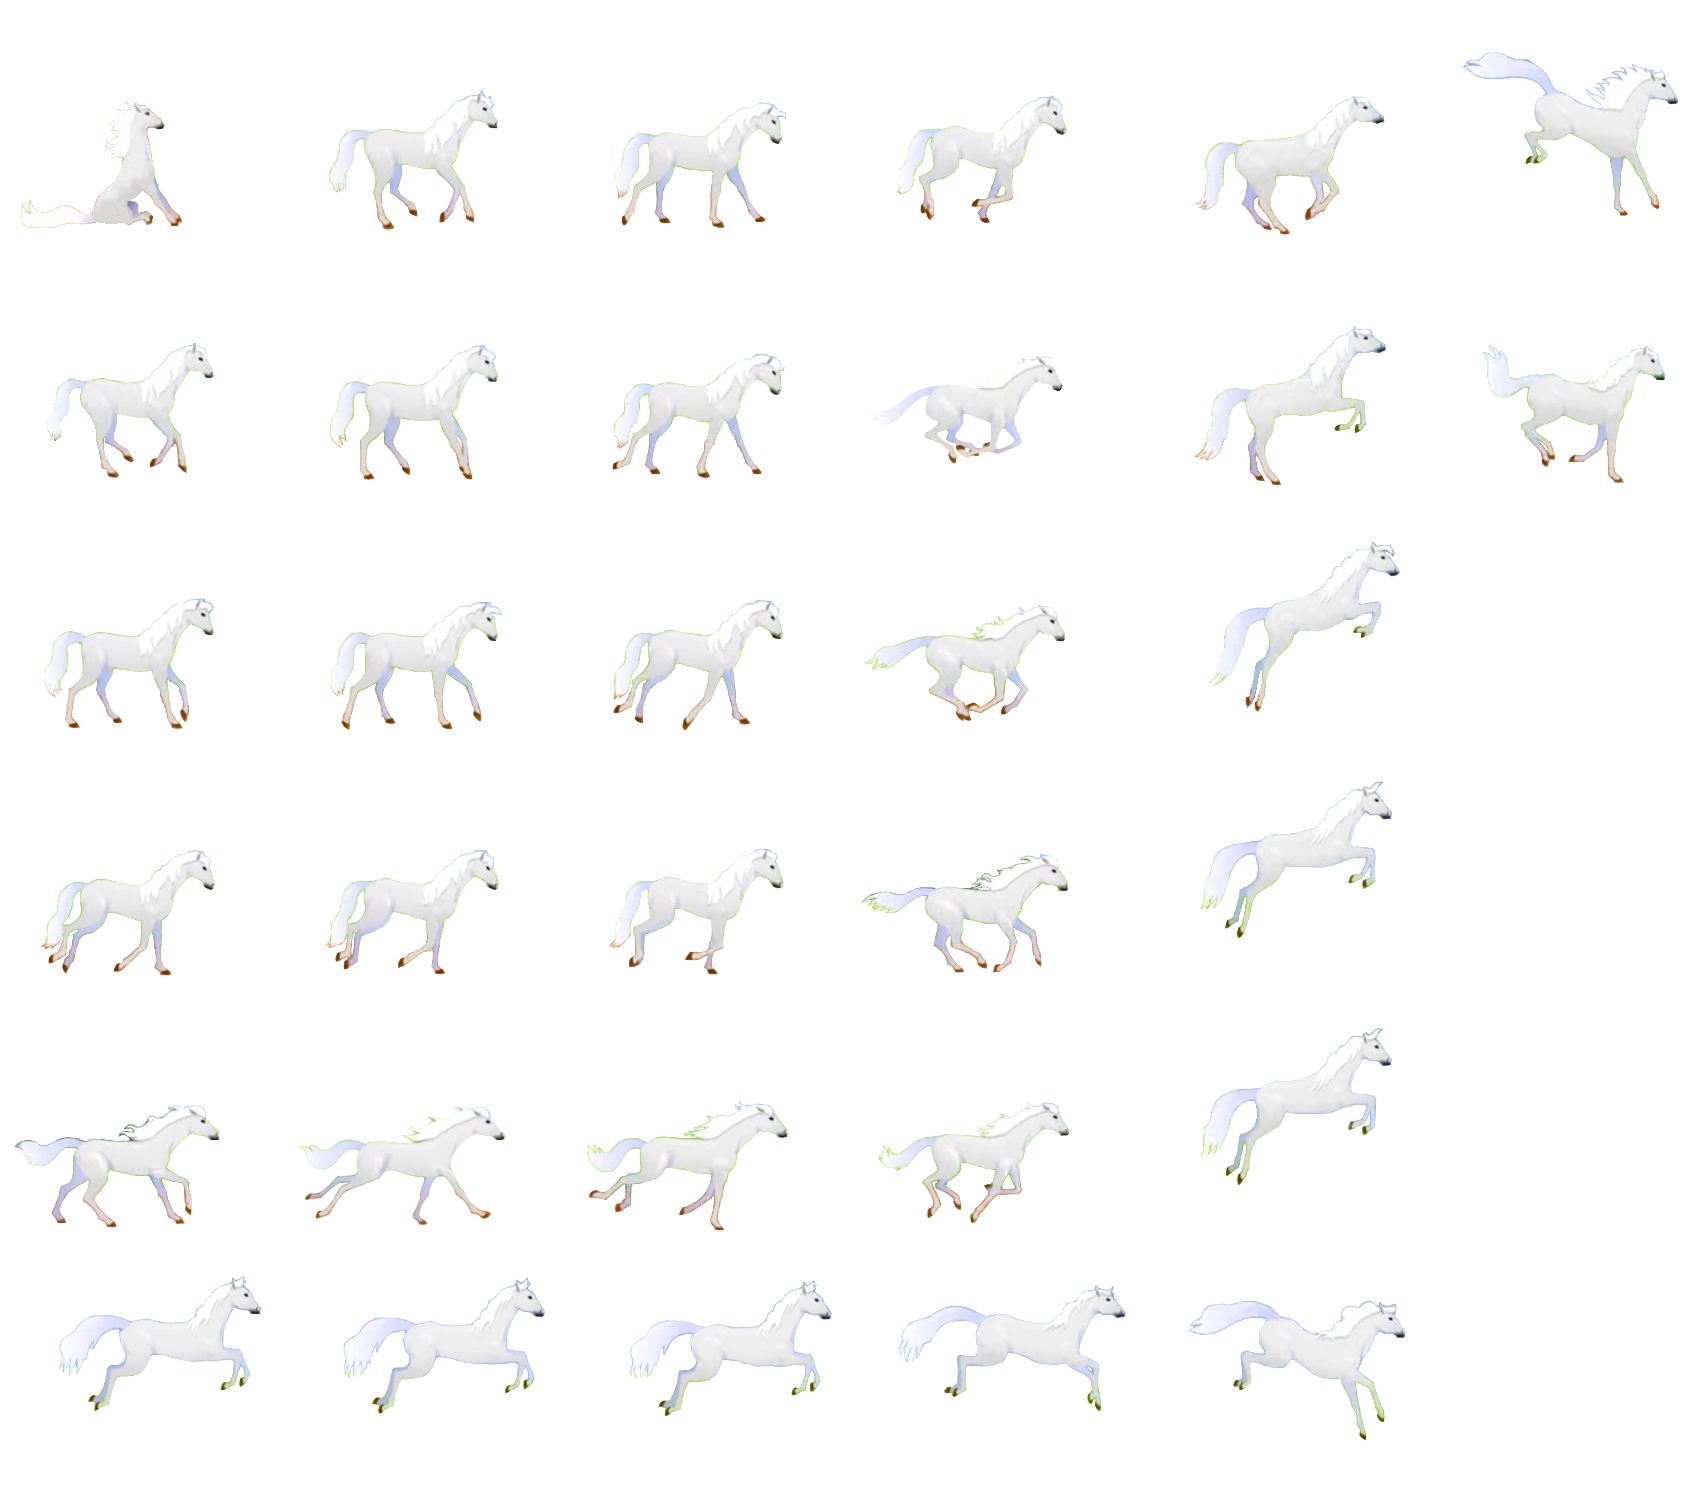
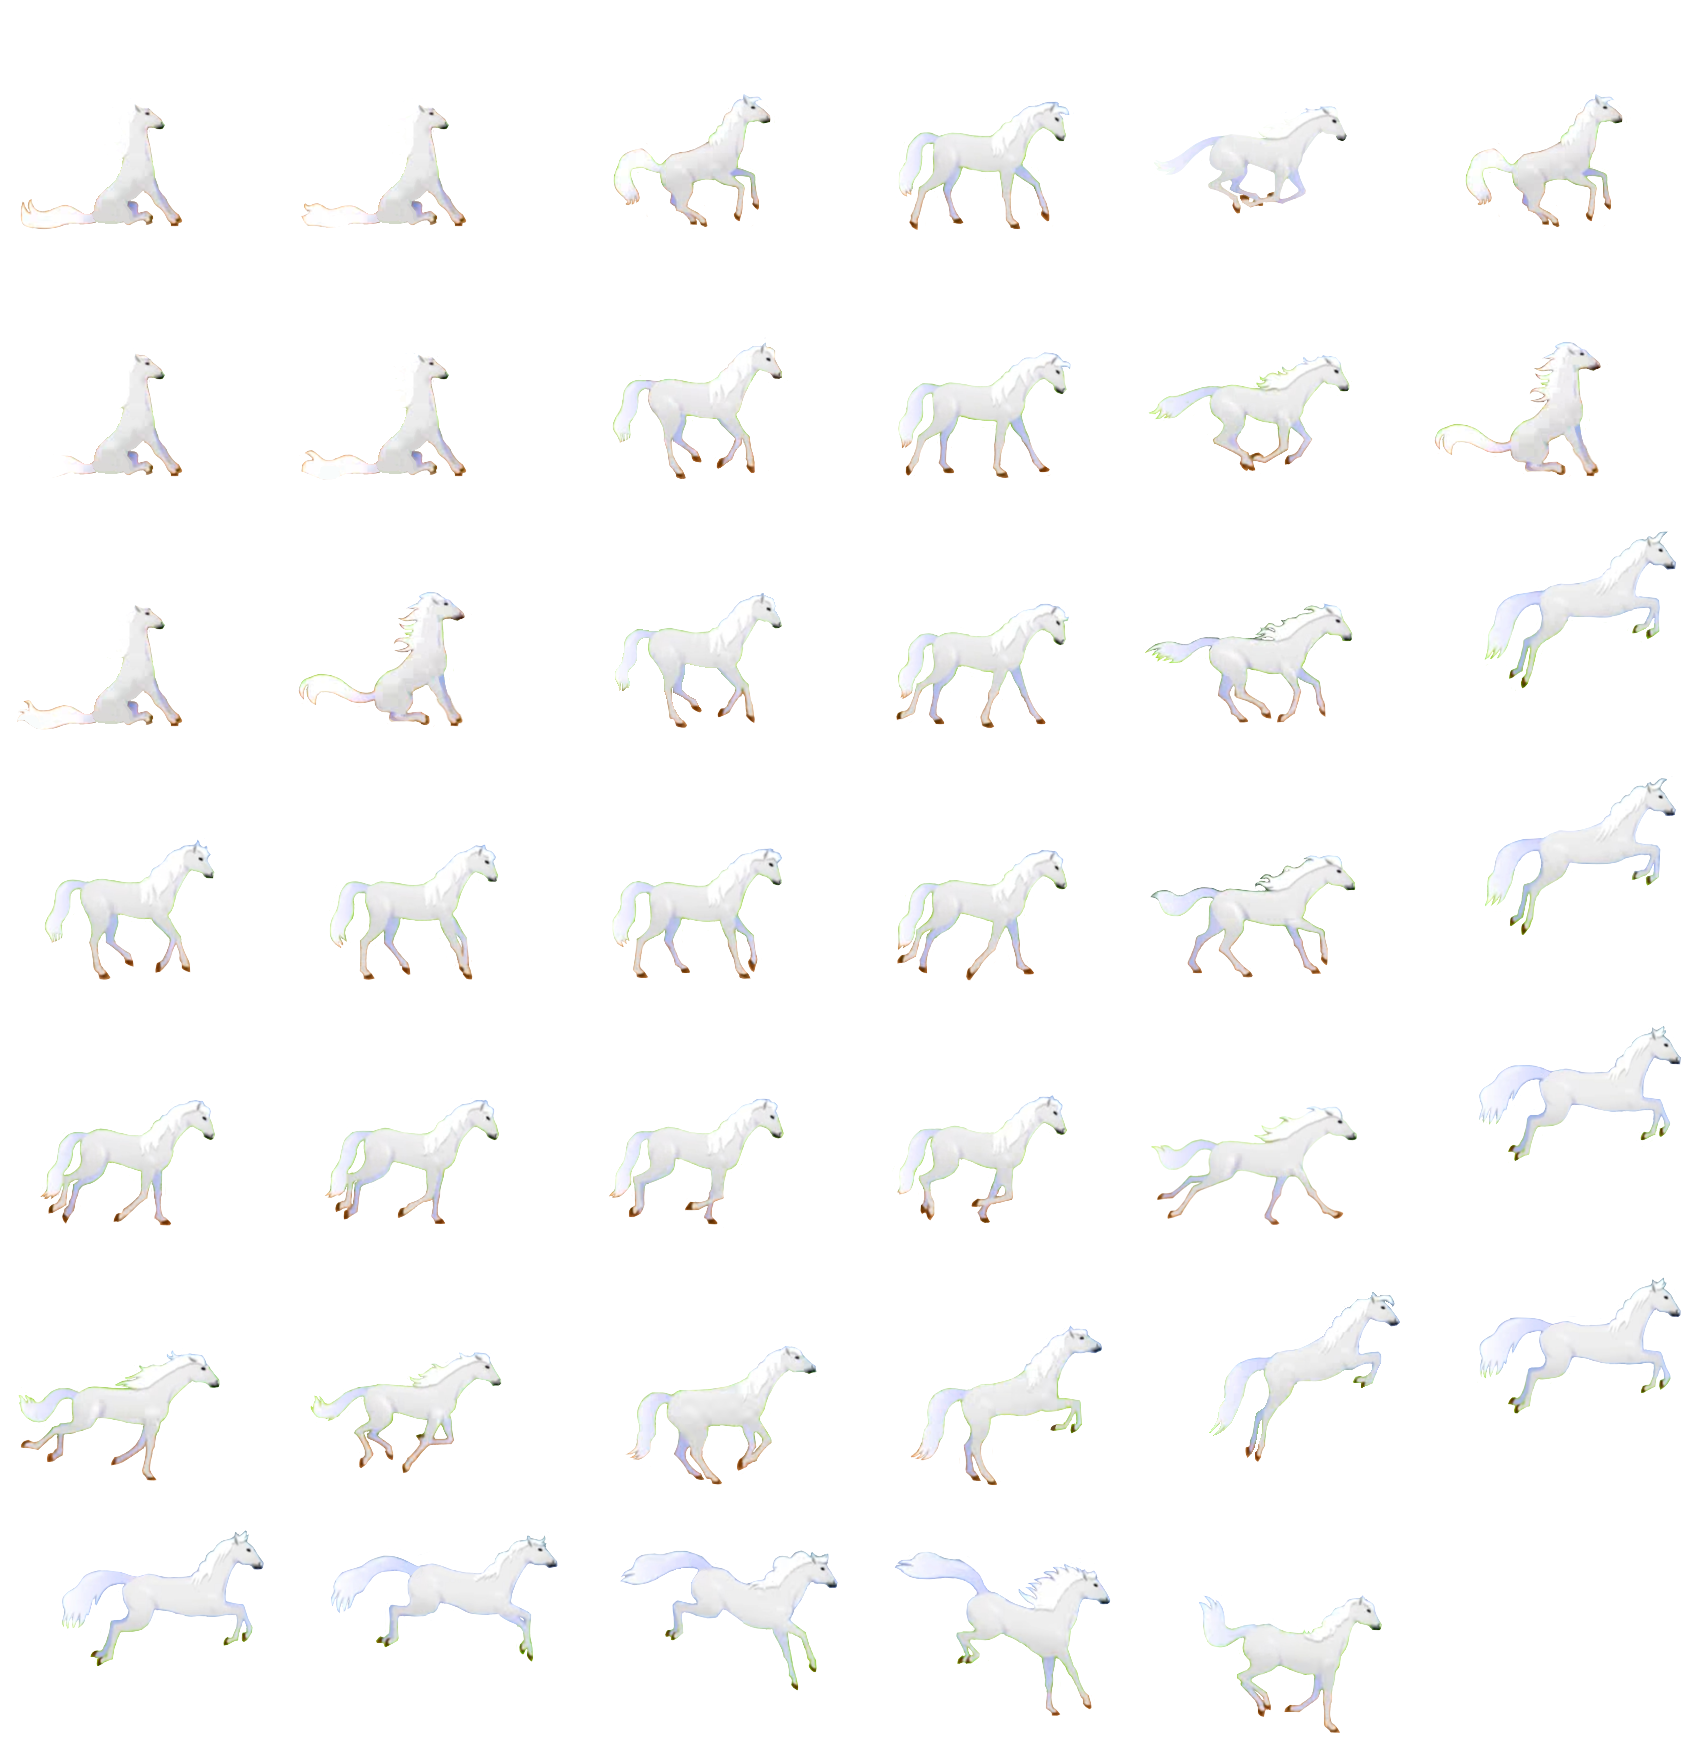
Adding animations

diff --git a/jumpingGame.js b/jumpingGame.js
@@ -3,22 +3,21 @@ playGame = false
 
 class JumpingGame extends Phaser.Scene 
 {
-
     horse
-    canterSpeed = 200
-    gallopSpeed = 400
+    canterSpeed = 310
+    gallopSpeed = 500
     skidSpeed = 200
-    jumpSpeedX = 0
-    jumpSpeedY = 180
     maxJump = 100
     runHeight = 280
     horseMovements = {
         running: 'running',
+        cantering: 'cantering',
+        galloping: 'galloping',
         jumping: 'jumping',
-        landing: 'landing',
         skidding: 'skidding'
     }
     horseMovement = this.horseMovements.running
+    isSkidding = false
 
     constructor ()
     {
@@ -41,10 +40,10 @@ class JumpingGame extends Phaser.Scene
 
     create ()
     { 
-
         // Inputs
         this.cursors = this.input.keyboard.createCursorKeys();
         this.spaceBar = this.input.keyboard.addKey(Phaser.Input.Keyboard.KeyCodes.SPACE);
+
 
         // BG
         this.add.image(444, 234, 'mountains').setScrollFactor(0)
@@ -52,33 +51,68 @@ class JumpingGame extends Phaser.Scene
         this.add.image(1332, 234, 'path')
         this.add.image(2220, 234, 'path')
 
+
         // Music
         const backgroundMusic = this.sound.add('background_music');
         backgroundMusic.loop = true; 
         backgroundMusic.play();
 
+
         // Horse
         this.horse = this.physics.add.sprite(-100, this.runHeight, 'horse', 'canter0000')
-        this.anims.create({
-            key: 'canter',
-            frames: this.anims.generateFrameNumbers('horse', { frames: [
-                'canter0000', 'canter0001', 'canter0002', 'canter0003', 'canter0004', 'canter0005', 'canter0006', 'canter0007', 'canter0008', 'canter0009', 'canter0010', 'canter0011'
-            ] }),
-            frameRate: 24,
-            repeat: -1
-        });
-        this.anims.create({
-            key: 'gallop',
-            frames: this.anims.generateFrameNumbers('horse', { frames: [
-                'gallop0000', 'gallop0001', 'gallop0002', 'gallop0003', 'gallop0004', 'gallop0005', 'gallop0006'
-            ] }),
-            frameRate: 24,
-            repeat: -1
-        });
         this.horse.body.setSize(150, 90, false).setOffset(70, 100);
+            this.anims.create({
+                key: 'canter',
+                frames: this.anims.generateFrameNumbers('horse', { frames: [
+                    'canter0000', 'canter0001', 'canter0002', 'canter0003', 'canter0004', 'canter0005', 'canter0006', 'canter0007', 'canter0008', 'canter0009', 'canter0010', 'canter0011'
+                ] }),
+                frameRate: 20,
+                repeat: -1
+            });
+            this.anims.create({
+                key: 'gallop',
+                frames: this.anims.generateFrameNumbers('horse', { frames: [
+                    'gallop0000', 'gallop0001', 'gallop0002', 'gallop0003', 'gallop0004', 'gallop0005', 'gallop0006'
+                ] }),
+                frameRate: 20,
+                repeat: -1
+            });
+            this.anims.create({
+                key: 'jump',
+                frames: this.anims.generateFrameNumbers('horse', { frames: [
+                    'jump0000', 'jump0001', 'jump0002', 'jump0003', 'jump0004', 'jump0005', 'jump0006', 'jump0007', 'jump0008', 'jump0009', 'jump0010', 'jump0011'
+                ] }),
+                frameRate: 16
+            });
+            this.anims.create({
+                key: 'slideStart',
+                frames: this.anims.generateFrameNumbers('horse', { frames: [
+                    'slide0000', 'slide0001'
+                ] }),
+                frameRate: 20
+            });
+            this.anims.create({
+                key: 'slide',
+                frames: this.anims.generateFrameNumbers('horse', { frames: [
+                    'slide0002', 'slide0003', 'slide0004', 'slide0005', 'slide0006'
+                ] }),
+                frameRate: 20,
+                repeat: -1
+            });
+            this.anims.create({
+                key: 'slideEnd',
+                frames: this.anims.generateFrameNumbers('horse', { frames: [
+                    'slide0007', 'slide0008', 'slide0009'
+                ] }),
+                frameRate: 20
+            });
+
+
+        // Camera
         this.cameras.main.startFollow(this.horse, false, 1, 0, -275, 45).setBounds(0, 0, 2664, 468);
 
 
+        // Gems
         this.gem1 = this.physics.add.image(400, this.runHeight+30, 'gemBlue5')
         this.gem2 = this.physics.add.image(600, this.runHeight-40, 'gemBlue5')
 
@@ -97,16 +131,16 @@ class JumpingGame extends Phaser.Scene
 
         // Jumps
         this.jump1 = this.physics.add.sprite(600, this.runHeight+60, 'jumps', 'wall')
-        this.jump1.body.setSize(10, 50, false).setOffset(27, 50);
+        this.jump1.body.setSize(5, 50, false).setOffset(10, 50);
 
         this.jump2 = this.physics.add.sprite(1500, this.runHeight+60, 'jumps', 'wall')
-        this.jump2.body.setSize(10, 50, false).setOffset(27, 50);
+        this.jump2.body.setSize(5, 50, false).setOffset(10, 50);
 
         this.jumps = this.physics.add.group({immovable: true});
         this.jumps.addMultiple([this.jump1, this.jump2]);
 
         
-        // UI
+        // Start screen
         const start = this.add.image(444, 234, 'start').setScrollFactor(0)
         const startInteractive = this.add.graphics().setInteractive(new Phaser.Geom.Rectangle(286, 274, 325, 45), Phaser.Geom.Rectangle.Contains);
             startInteractive.on('pointerdown', function (pointer)
@@ -116,8 +150,9 @@ class JumpingGame extends Phaser.Scene
             });
 
 
+        // UI
         const UI = this.add.image(443, 234, 'UI').setScrollFactor(0)
-        // music button
+        // Music button
         const musicButton = this.add.sprite(871, 453, 'music_button', 'music_on').setInteractive({ pixelPerfect: true }).setScale(0.7).setScrollFactor(0);
             musicButton.on('pointerdown', function (pointer)
             {
@@ -139,58 +174,100 @@ class JumpingGame extends Phaser.Scene
     {
         if (playGame) {
             // Horse movement
-            if (this.horseMovement !== this.horseMovements.jumping && this.horseMovement !== this.horseMovements.landing) {
-                if (this.horseMovement === this.horseMovements.skidding) {
-                    // Horse skid
-                    this.horse.setVelocityX(this.canterSpeed);
-                    this.horse.setFrame('slide')   
-                }
-                else if (this.cursors.right.isDown)
-                {
-                    // Horse gallop
-                    this.horse.setVelocityX(this.gallopSpeed);
-                    this.horse.setFrame('gallop0001')
-                }
-                else {
-                    // Horse canter
-                    this.horse.setVelocityX(this.canterSpeed);
-                    this.horse.setFrame('canter0009')
+            if (this.horseMovement === this.horseMovements.jumping) {
+                // Adjust horse hitbox position whilst jumping
+                switch (this.horse.frame.name) {
+                    case 'jump0001':
+                        this.horse.body.setSize(150, 90, false).setOffset(90, 85);
+                        break;
+                    case 'jump0002':
+                        this.horse.body.setSize(150, 90, false).setOffset(110, 50);
+                        break;
+                    case 'jump0003':
+                        this.horse.body.setSize(150, 90, false).setOffset(110, 40);
+                        break;
+                    case 'jump0004':
+                        this.horse.body.setSize(150, 90, false).setOffset(110, 35);
+                        break;
+                    case 'jump0005':
+                        this.horse.body.setSize(150, 90, false).setOffset(110, 35);
+                        break;
+                    case 'jump0006':
+                        this.horse.body.setSize(150, 90, false).setOffset(110, 35);
+                        break;
+                    case 'jump0007':
+                        this.horse.body.setSize(150, 90, false).setOffset(110, 35);
+                        break;
+                    case 'jump0008':
+                        this.horse.body.setSize(150, 90, false).setOffset(115, 40);
+                        break;
+                    case 'jump0009':
+                        this.horse.body.setSize(150, 90, false).setOffset(110, 50);
+                        break;
+                    case 'jump0010':
+                        this.horse.body.setSize(150, 90, false).setOffset(110, 70);
+                        break;
+                        
+                    case 'jump0011':
+                        this.horse.body.setSize(150, 90, false).setOffset(90, 100);
+                        this.horseMovement = this.horseMovements.running
+                        break;
+                
+                    default:
+                        this.horse.body.setSize(150, 90, false).setOffset(90, 100);
+                        break;
                 }
             }
             else {
-                // Speed boost while jumping
-                // Horse canter
-                this.horse.setVelocityX(this.canterSpeed + this.jumpSpeedX);
+                if (this.isSkidding) {
+                    // Horse skid
+                    if (this.horseMovement !== this.horseMovements.skidding) {
+                        this.horseMovement = this.horseMovements.skidding
+                        this.horse.setVelocityX(this.canterSpeed);
+                        this.horse.body.setSize(150, 90, false).setOffset(70, 100);
+                        this.horse.play('slideStart') 
+                    }
+                    
+                    // Loop slide animation while skidding
+                    if (this.horse.frame.name === 'slide0001') {
+                        this.horse.play('slide') 
+                    }
 
-                // Horse gallop
-                if (this.cursors.right.isDown)
+                    this.isSkidding = false
+                }
+                else if (this.horseMovement === this.horseMovements.skidding)
                 {
-                    this.horse.setVelocityX(this.gallopSpeed + this.jumpSpeedX);
+                    // End slide animation and continue running afterdone skidding
+                    if (this.horse.frame.name === 'slide0009') {
+                        this.horseMovement = this.horseMovements.running
+                    }
+                    else if (this.horse.frame.name !== 'slide0007' && this.horse.frame.name !== 'slide0008') {
+                        this.horse.play('slideEnd')
+                    }
+                }
+                else if (this.cursors.right.isDown && this.horseMovement !== this.horseMovements.galloping)
+                {
+                    // Horse gallop when right arrow key is down
+                    this.horseMovement = this.horseMovements.galloping
+                    this.horse.setVelocityX(this.gallopSpeed);
+                    this.horse.body.setSize(150, 90, false).setOffset(70, 100);
+                    this.horse.play('gallop')
+                }
+                else if (!this.cursors.right.isDown && this.horseMovement !== this.horseMovements.cantering) {
+                    // Horse canter if right arrow key is not down
+                    this.horseMovement = this.horseMovements.cantering
+                    this.horse.setVelocityX(this.canterSpeed);
+                    this.horse.body.setSize(150, 90, false).setOffset(70, 100);
+                    this.horse.play('canter')
+                }
+                else if (this.spaceBar.isDown) {
+                    // Horse jump if spacebar is pressed
+                    this.horseMovement = this.horseMovements.jumping
+                    this.horse.play('jump')
                 }
             }
 
-            if (this.spaceBar.isDown && this.horseMovement === this.horseMovements.running) {
-                this.horseMovement = this.horseMovements.jumping
-                jump(this.horse, -this.jumpSpeedY)
-                this.horse.setFrame('jump0003')
-            }
-            else if (this.horseMovement === this.horseMovements.jumping && this.horse.y < this.runHeight - this.maxJump) {
-                this.horseMovement = this.horseMovements.landing
-                jump(this.horse, this.jumpSpeedY)
-                this.horse.setFrame('jump0010')
-            }
-            else if ((this.horseMovement === this.horseMovements.landing && this.horse.y > this.runHeight) || this.horseMovement === this.horseMovements.skidding) {
-                this.horseMovement = this.horseMovements.running
-                this.horse.y = this.runHeight
-                jump(this.horse, 0)
-            }
-
-            function jump(horse, speedY) {
-                horse.setVelocityY(speedY);
-            }
-
             // Gems
-
             this.gems.getChildren().forEach(gem => {
                 this.physics.overlap(
                     this.horse,
@@ -204,7 +281,9 @@ class JumpingGame extends Phaser.Scene
             this.physics.overlap(
                 this.horse,
                 this.jumps,
-                function() {this.horseMovement = this.horseMovements.skidding},
+                function() {
+                        this.isSkidding = true
+                },
                 null,
                 this);
         }
